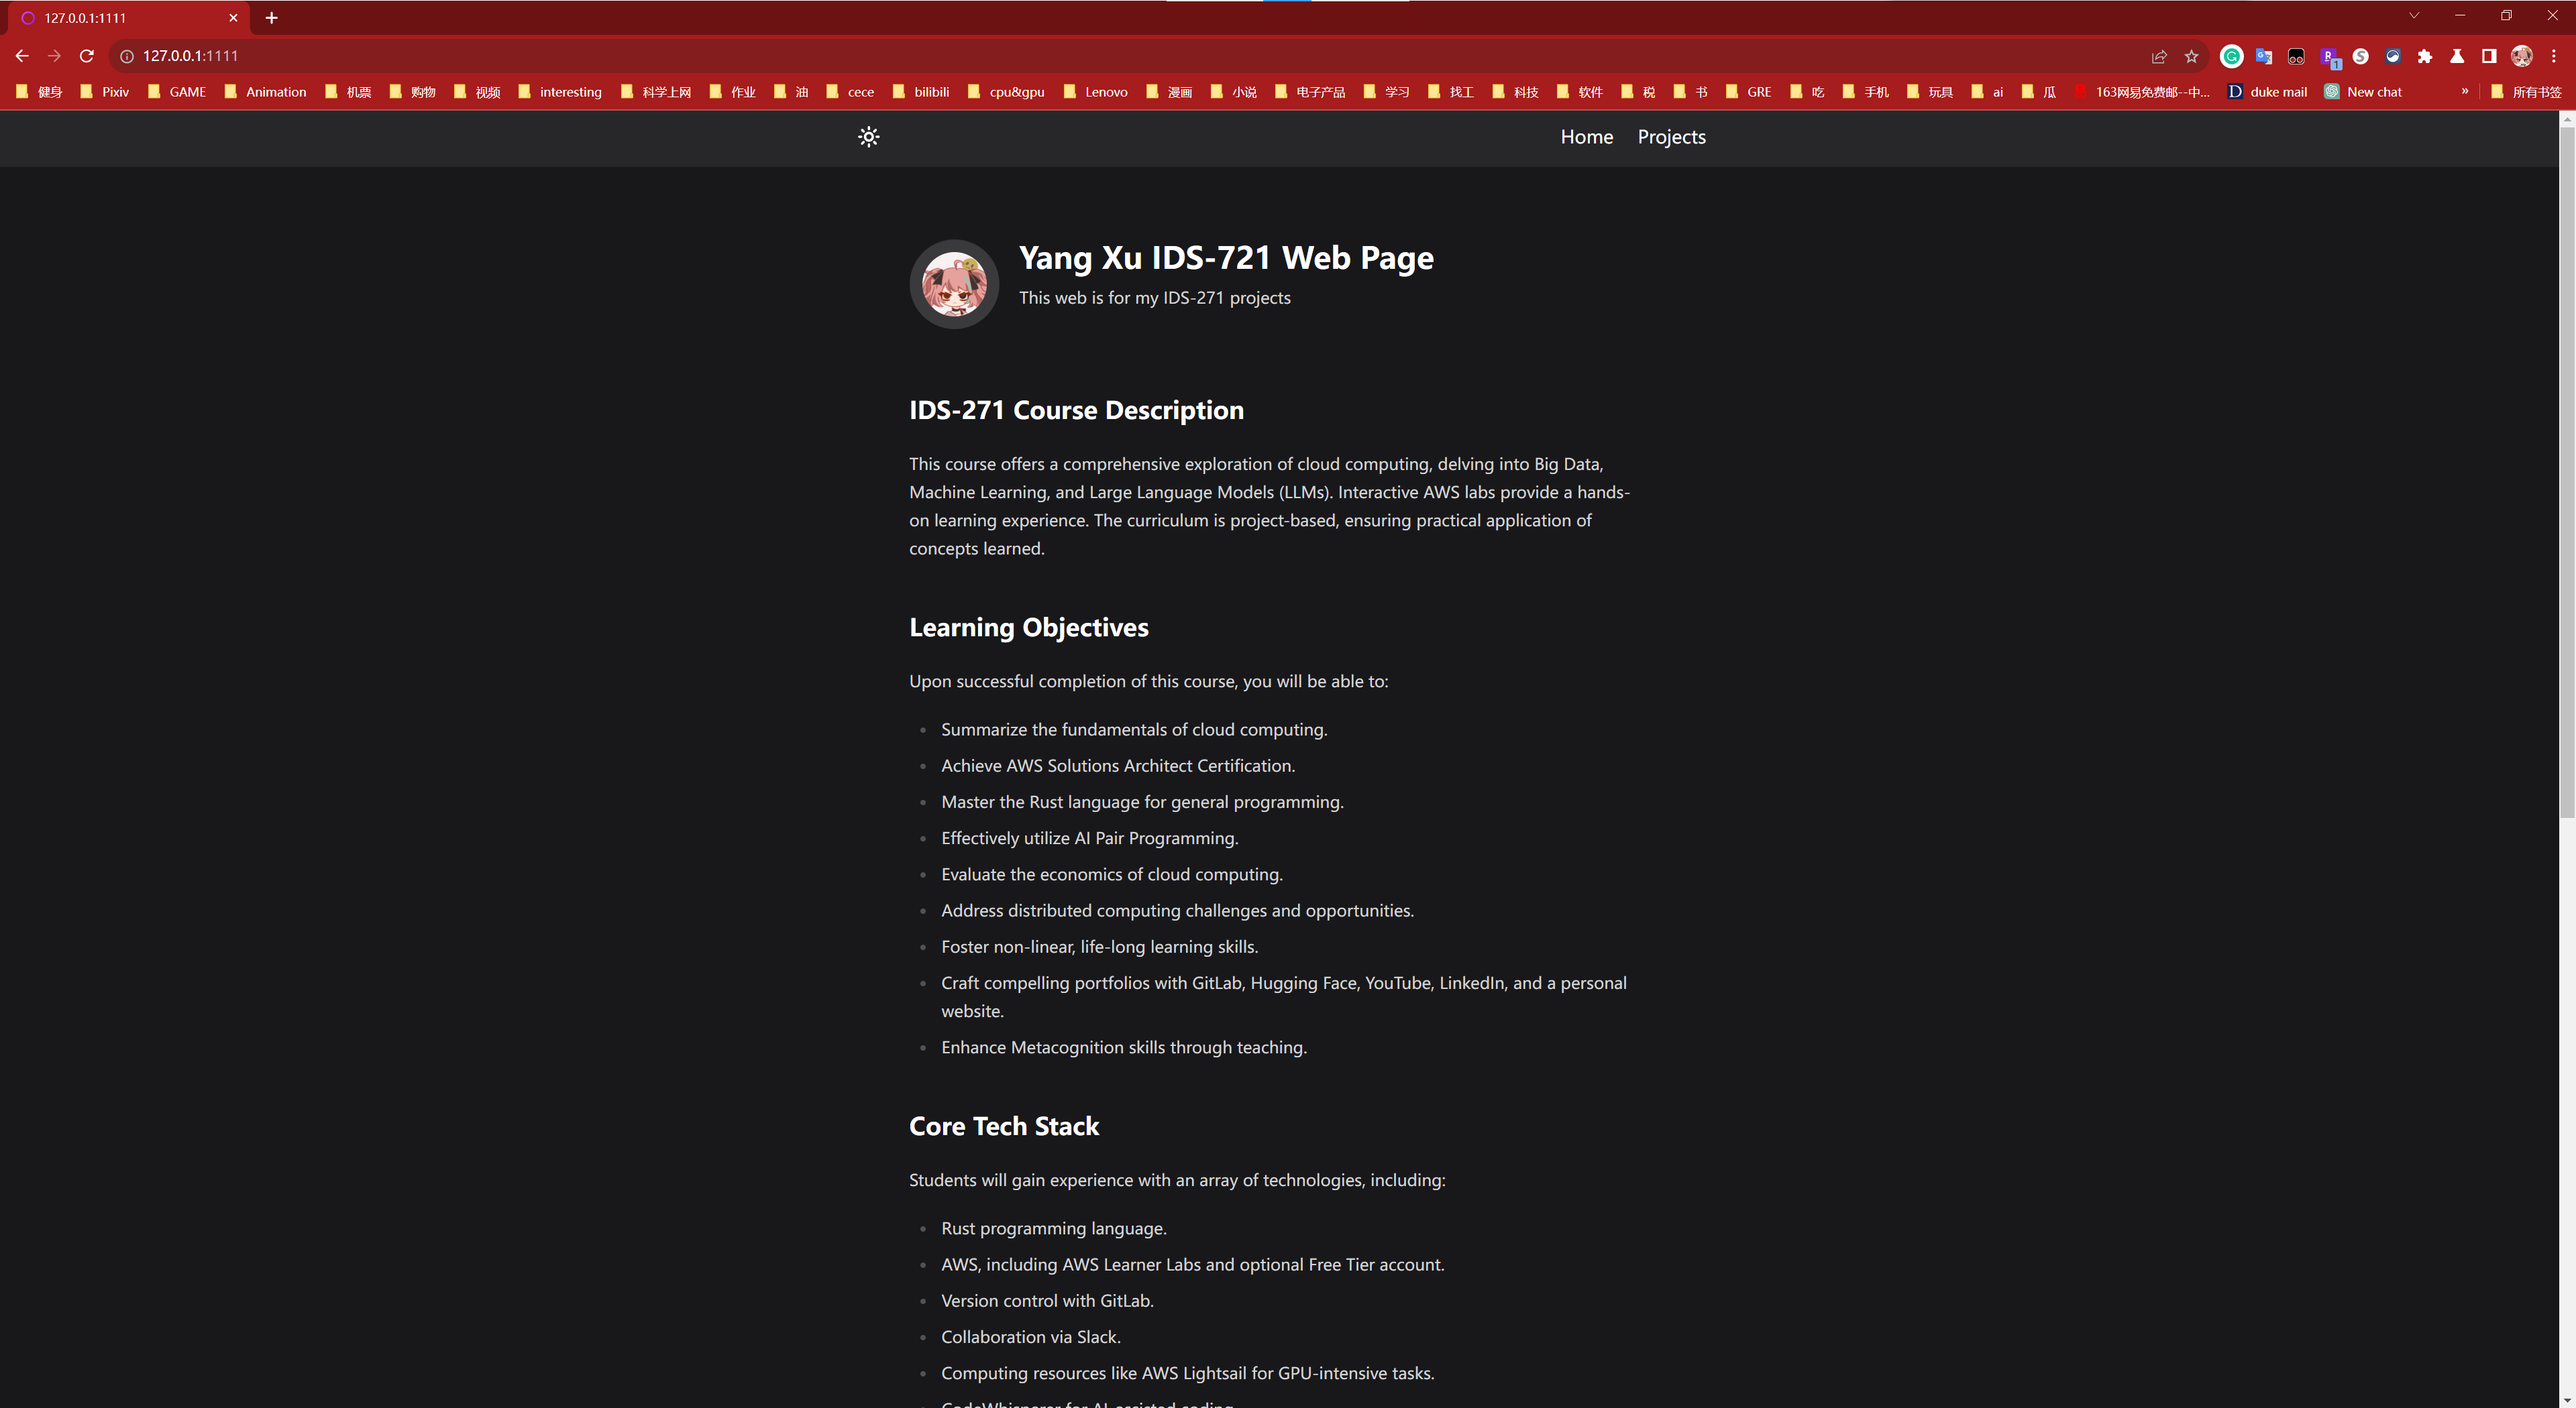
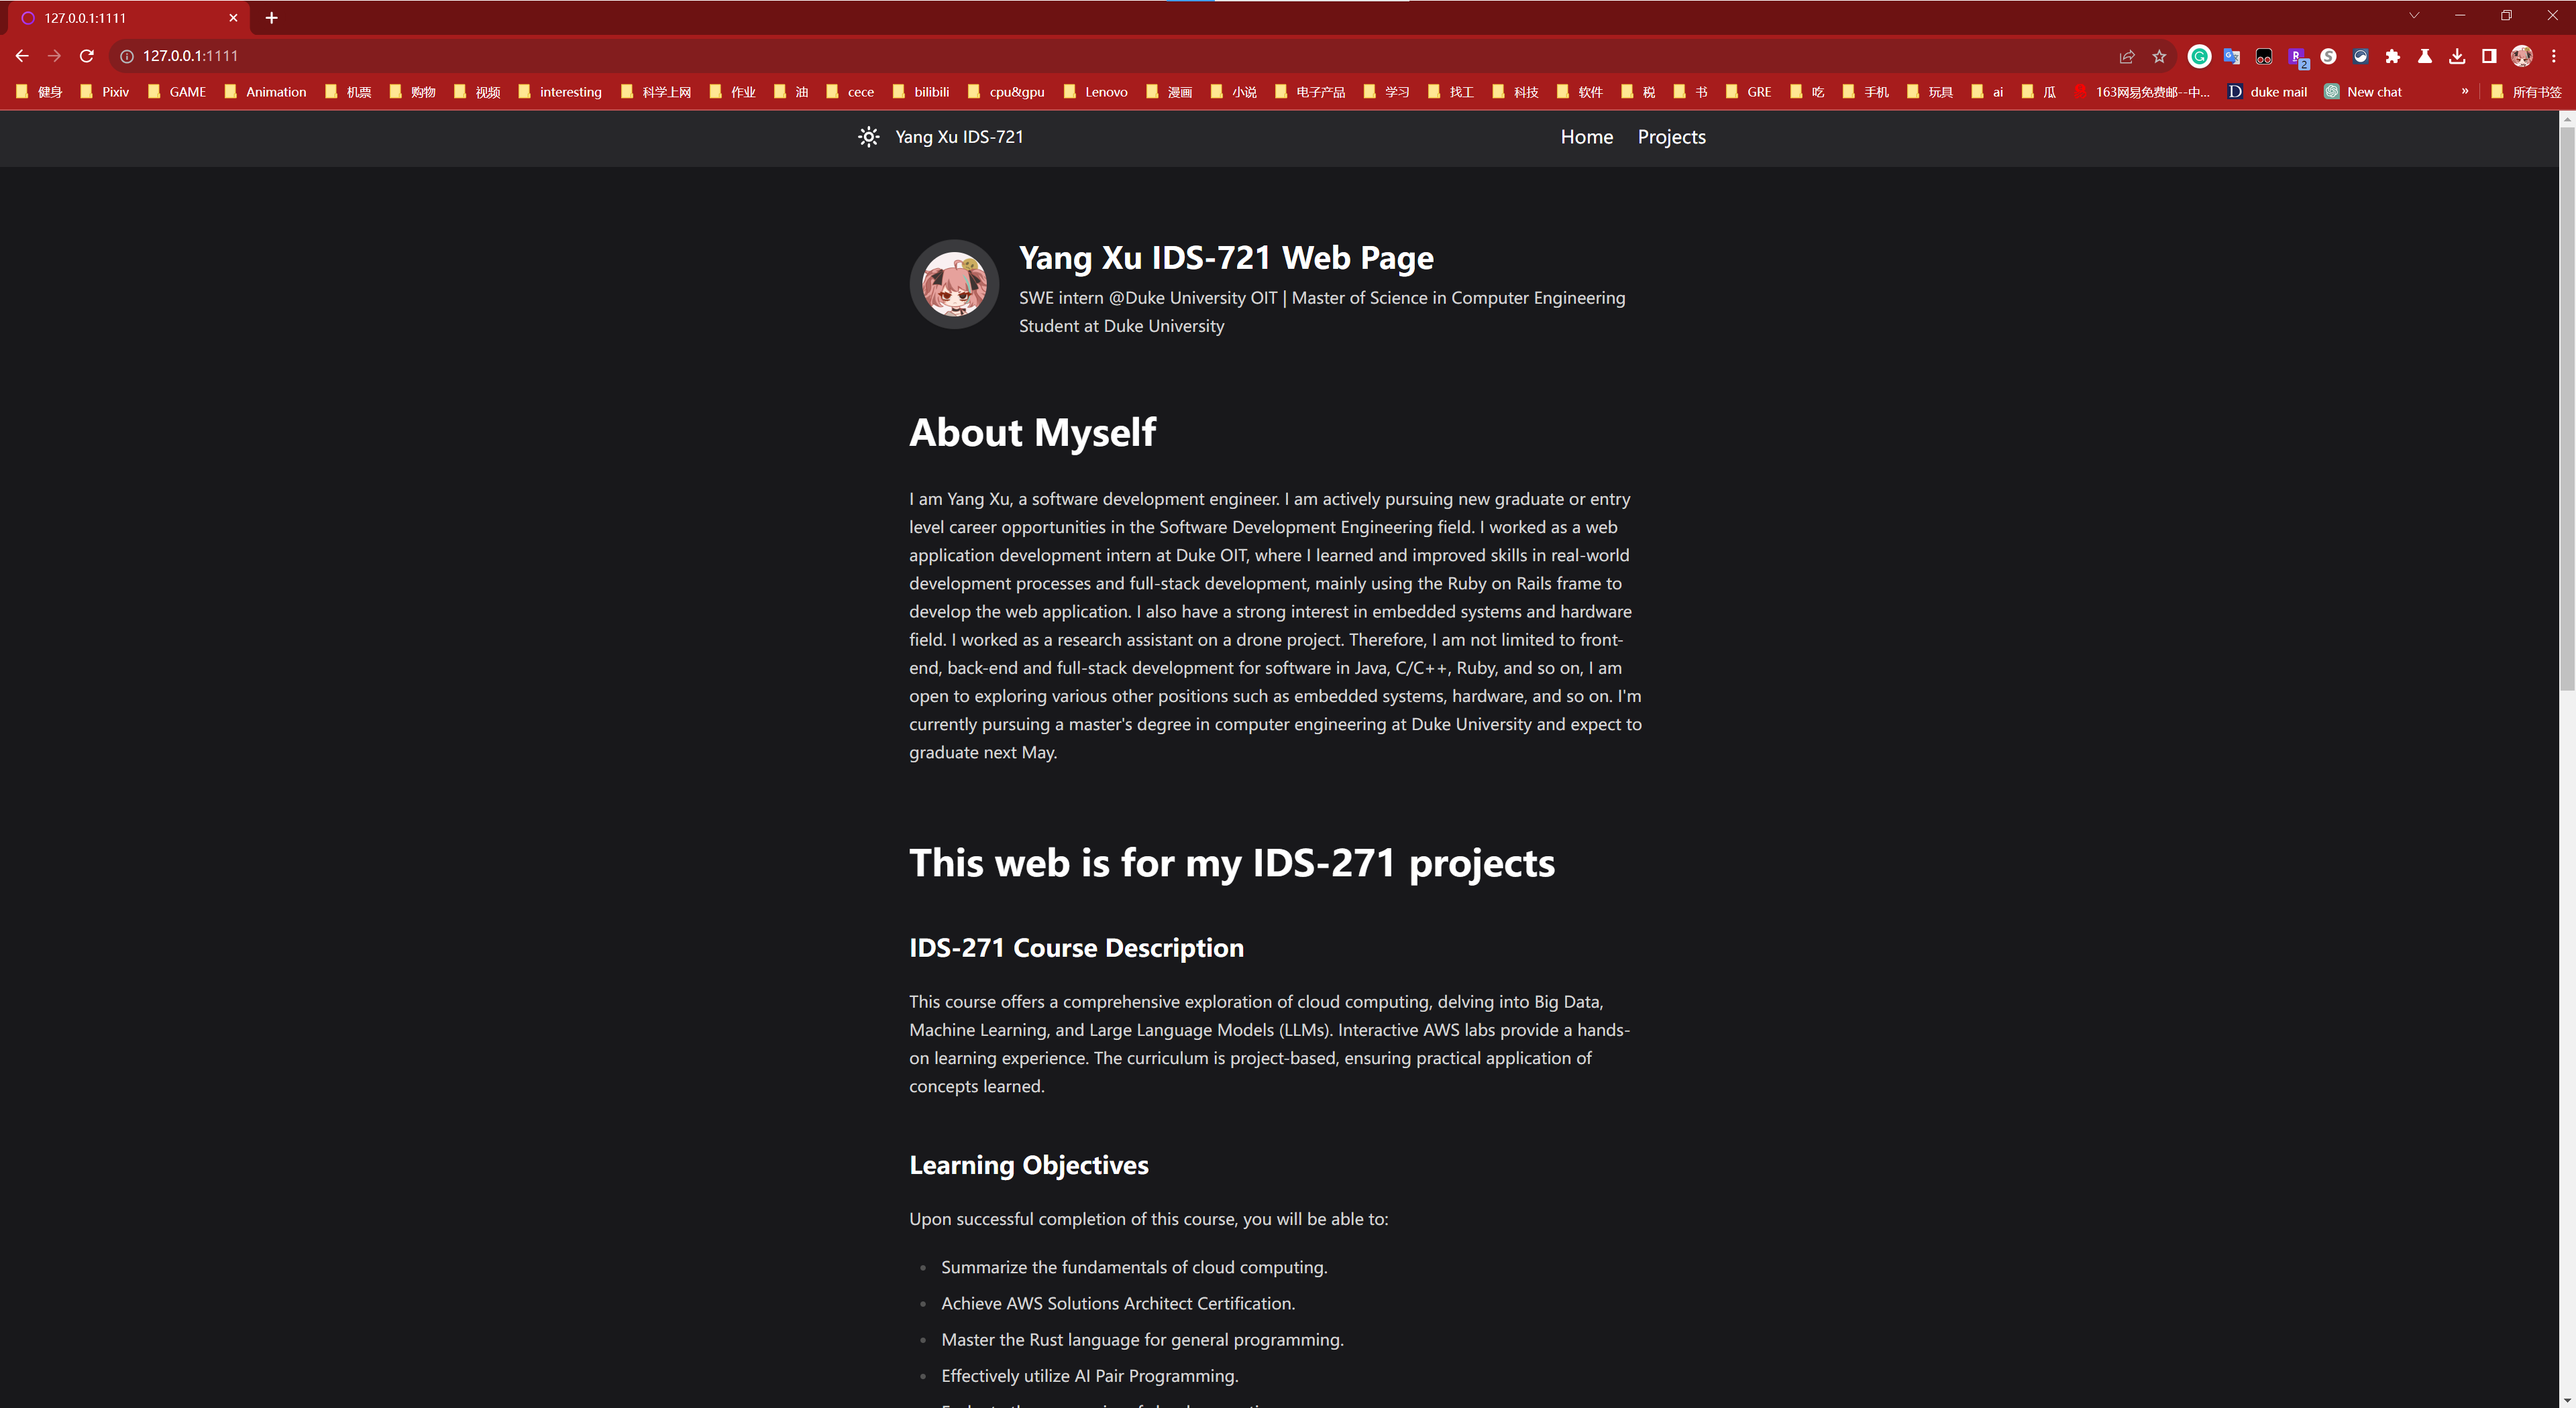
update header

diff --git a/ids721-mini1/themes/kita/templates/partials/header.html b/ids721-mini1/themes/kita/templates/partials/header.html
@@ -10,6 +10,10 @@
           role="button"
           aria-label="Dark"
         ></div>
+        <div
+        class="relative z-50 flex shrink-0 cursor-pointer items-center justify-center gap-2.5"
+        role="button"
+        >&nbsp;<a href="{{ get_url(path='@/_index.md') }}">Yang Xu IDS-721</a></div>
       </div>
       {% if config.extra.menu %}
       <div

diff --git a/ids721-mini1/content/_index.md b/ids721-mini1/content/_index.md
@@ -3,6 +3,15 @@ title = "Home Page"
 template = "index.html"
 +++
 
+# About Myself
+
+I am Yang Xu, a software development engineer. I am actively pursuing new graduate or entry level career opportunities in the Software Development Engineering field. I worked as a web application development intern at Duke OIT, where I learned and improved skills in real-world development processes and full-stack development, mainly using the Ruby on Rails frame to develop the web application. I also have a strong interest in embedded systems and hardware field. I worked as a research assistant on a drone project. Therefore, I am not limited to front-end, back-end and full-stack development for software in Java, C/C++, Ruby, and so on, I am open to exploring various other positions such as embedded systems, hardware, and so on. I'm currently pursuing a master's degree in computer engineering at Duke University and expect to graduate next May.
+
+<br>
+<br>
+
+# This web is for my IDS-271 projects
+
 ## IDS-271 Course Description
 
 This course offers a comprehensive exploration of cloud computing, delving into Big Data, Machine Learning, and Large Language Models (LLMs). Interactive AWS labs provide a hands-on learning experience. The curriculum is project-based, ensuring practical application of concepts learned.
